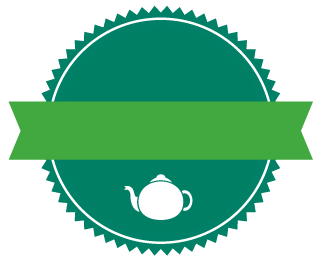
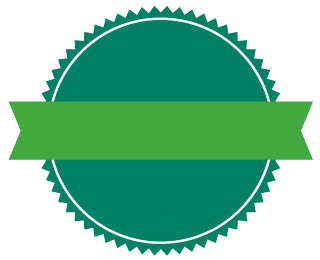
design v2

Changed region(s): [[0.375, 0.6462, 0.625, 0.8615]]

diff --git a/public/css/style.css b/public/css/style.css
@@ -1,4 +1,4 @@
-/********fonts*******/
+4d4f53/********fonts*******/
 @font-face {
   font-family: 'FocoRegular';
   src: url("http://www.sage.co.uk/fonts/foco/foco-webfont.eot");
@@ -34,32 +34,40 @@
 html, body{
 	
     min-height: 100%;
-	background-color: grey;
+	background-color: #4d4f53;
 	font-family: arial;
 	color: white;
 }
 
+input{
+	 line-height: normal !important;
+	 
+}
+
 ::-webkit-input-placeholder { /* WebKit browsers */
-    color:    #efefef;
+    color:    #007f64;
 }
 :-moz-placeholder { /* Mozilla Firefox 4 to 18 */
-    color:    #efefef;
+    color:    #007f64;
 }
 ::-moz-placeholder { /* Mozilla Firefox 19+ */
-    color:    #efefef;
+    color:    #007f64;
 }
 :-ms-input-placeholder { /* Internet Explorer 10+ */
-    color:    #efefef;
+    color:    #007f64;
 }
 
 .container{
 	max-width: 720px !important;
-	background-color: white;
-	background-image: url('../images/cup.png');
+	background-color: #4d4f53;
 	background-position: bottom 30px right 95px;
 	background-repeat:no-repeat;
 }
 
+.sage-logo{
+	float: right;
+	margin: 20px
+}
 .height100{
     min-height: 100%;
 	position: relative;
@@ -69,13 +77,11 @@ html, body{
 	float:left;
 	width:270px;
 	margin-left:45px;
-	background-color: #41a940;
-	text-align: center;
+	text-align: left;
 }
 
 .logo{
-	width:180px;
-	height: 180px;
+	width:230px;
 	display: block;
 	margin: 32px auto;
 }
@@ -83,7 +89,7 @@ html, body{
 
 .col-custom-left p{
 	color: white;
-	font-size:19px;
+	font-size:16px;
 	padding-left:25px;
 	padding-right: 25px;
 	margin-bottom: 25px;
@@ -106,11 +112,12 @@ html, body{
 }
 
 input{
-	background-color: #007f64;
+	background-color: #fff;
 	margin-bottom: 2px;
-	color: white;
-	border:2px solid #C0D8BF;
-	line-height: 30px;
+	color: #007f64;
+	border:2px solid #007f64;
+	height: 2.5em;
+
 }
 
 button{
@@ -125,7 +132,6 @@ button{
 	float:right;
 	width:320px;
 	margin-right: 45px;
-	background-color: rgba(255, 255, 255, 0.5);
 	padding-bottom: 20px;
 }
 
@@ -189,11 +195,6 @@ button{
 	background-position: top center;
 }
 
-.cup{
-	margin:20px auto;
-	display: block;
-	width:220px;
-}
 
 .modal-content{
 	border-radius: 0px;

diff --git a/public/js/main.js b/public/js/main.js
@@ -2,16 +2,7 @@
 	$(document).ready(function(){
 		var id = 0;
 
-		if($('.container').height() < $(window).height()){
-			$('.container').height($(window).height());
-		}
-		$('.height100').css('height', $('.container').height() + 'px');
-		$(window).resize(function() {
-			if($('.container').height() < $(window).height()){
-				$('.container').height($(window).height());
-			}
-		});
-
+		
 
 		$('.names input').bind('input', function(){
 			$(this).val(ucwords($(this).val()));
@@ -47,12 +38,12 @@
 					$('#name').html(val.name);
 					$('.state2').removeClass('hidden').hide().fadeIn();
 					$('[data-id="'+val.id+'"]').addClass('used');
-					$('.share .scope-note').html('Let <strong>'+val.name+'</strong> know they lost')
+					$('.share .scope-note').html('Tell <strong>'+val.name+'</strong> it\'s time to put the kettle on:')
 					$('.email').html('email them a reminder')
 							.attr('target', '_blank')
-							.attr('href', "mailto:?subject=Make the Tea!&body=Hey "+val.name+", You were picked to make the tea by Sage's VATea app! Get Brewing");
+							.attr('href', "mailto:?subject=Make the Tea!&body=Hey "+val.name+", it's time to put the kettle on!");
 
-					var tweet_text = 'Hey, ' + val.name + ' Make the tea!';
+					var tweet_text = 'Hey, ' + val.name + ' it\'s time to put the kettle on!';
 					var tweet_url = 'https://twitter.com/intent/tweet?text=' + encodeURIComponent(tweet_text) + '&url=' + encodeURIComponent('http://www.sage.co.uk') + '&via=' + 'sageuk';
 					$('.twitter').attr('href', tweet_url);
 				});

diff --git a/routes/index.js b/routes/index.js
@@ -4,5 +4,5 @@
  */
 
 exports.index = function(req, res){
-  res.render('index', { title: 'Express' });
+  res.render('index', { title: 'Put the tea on!' });
 };
